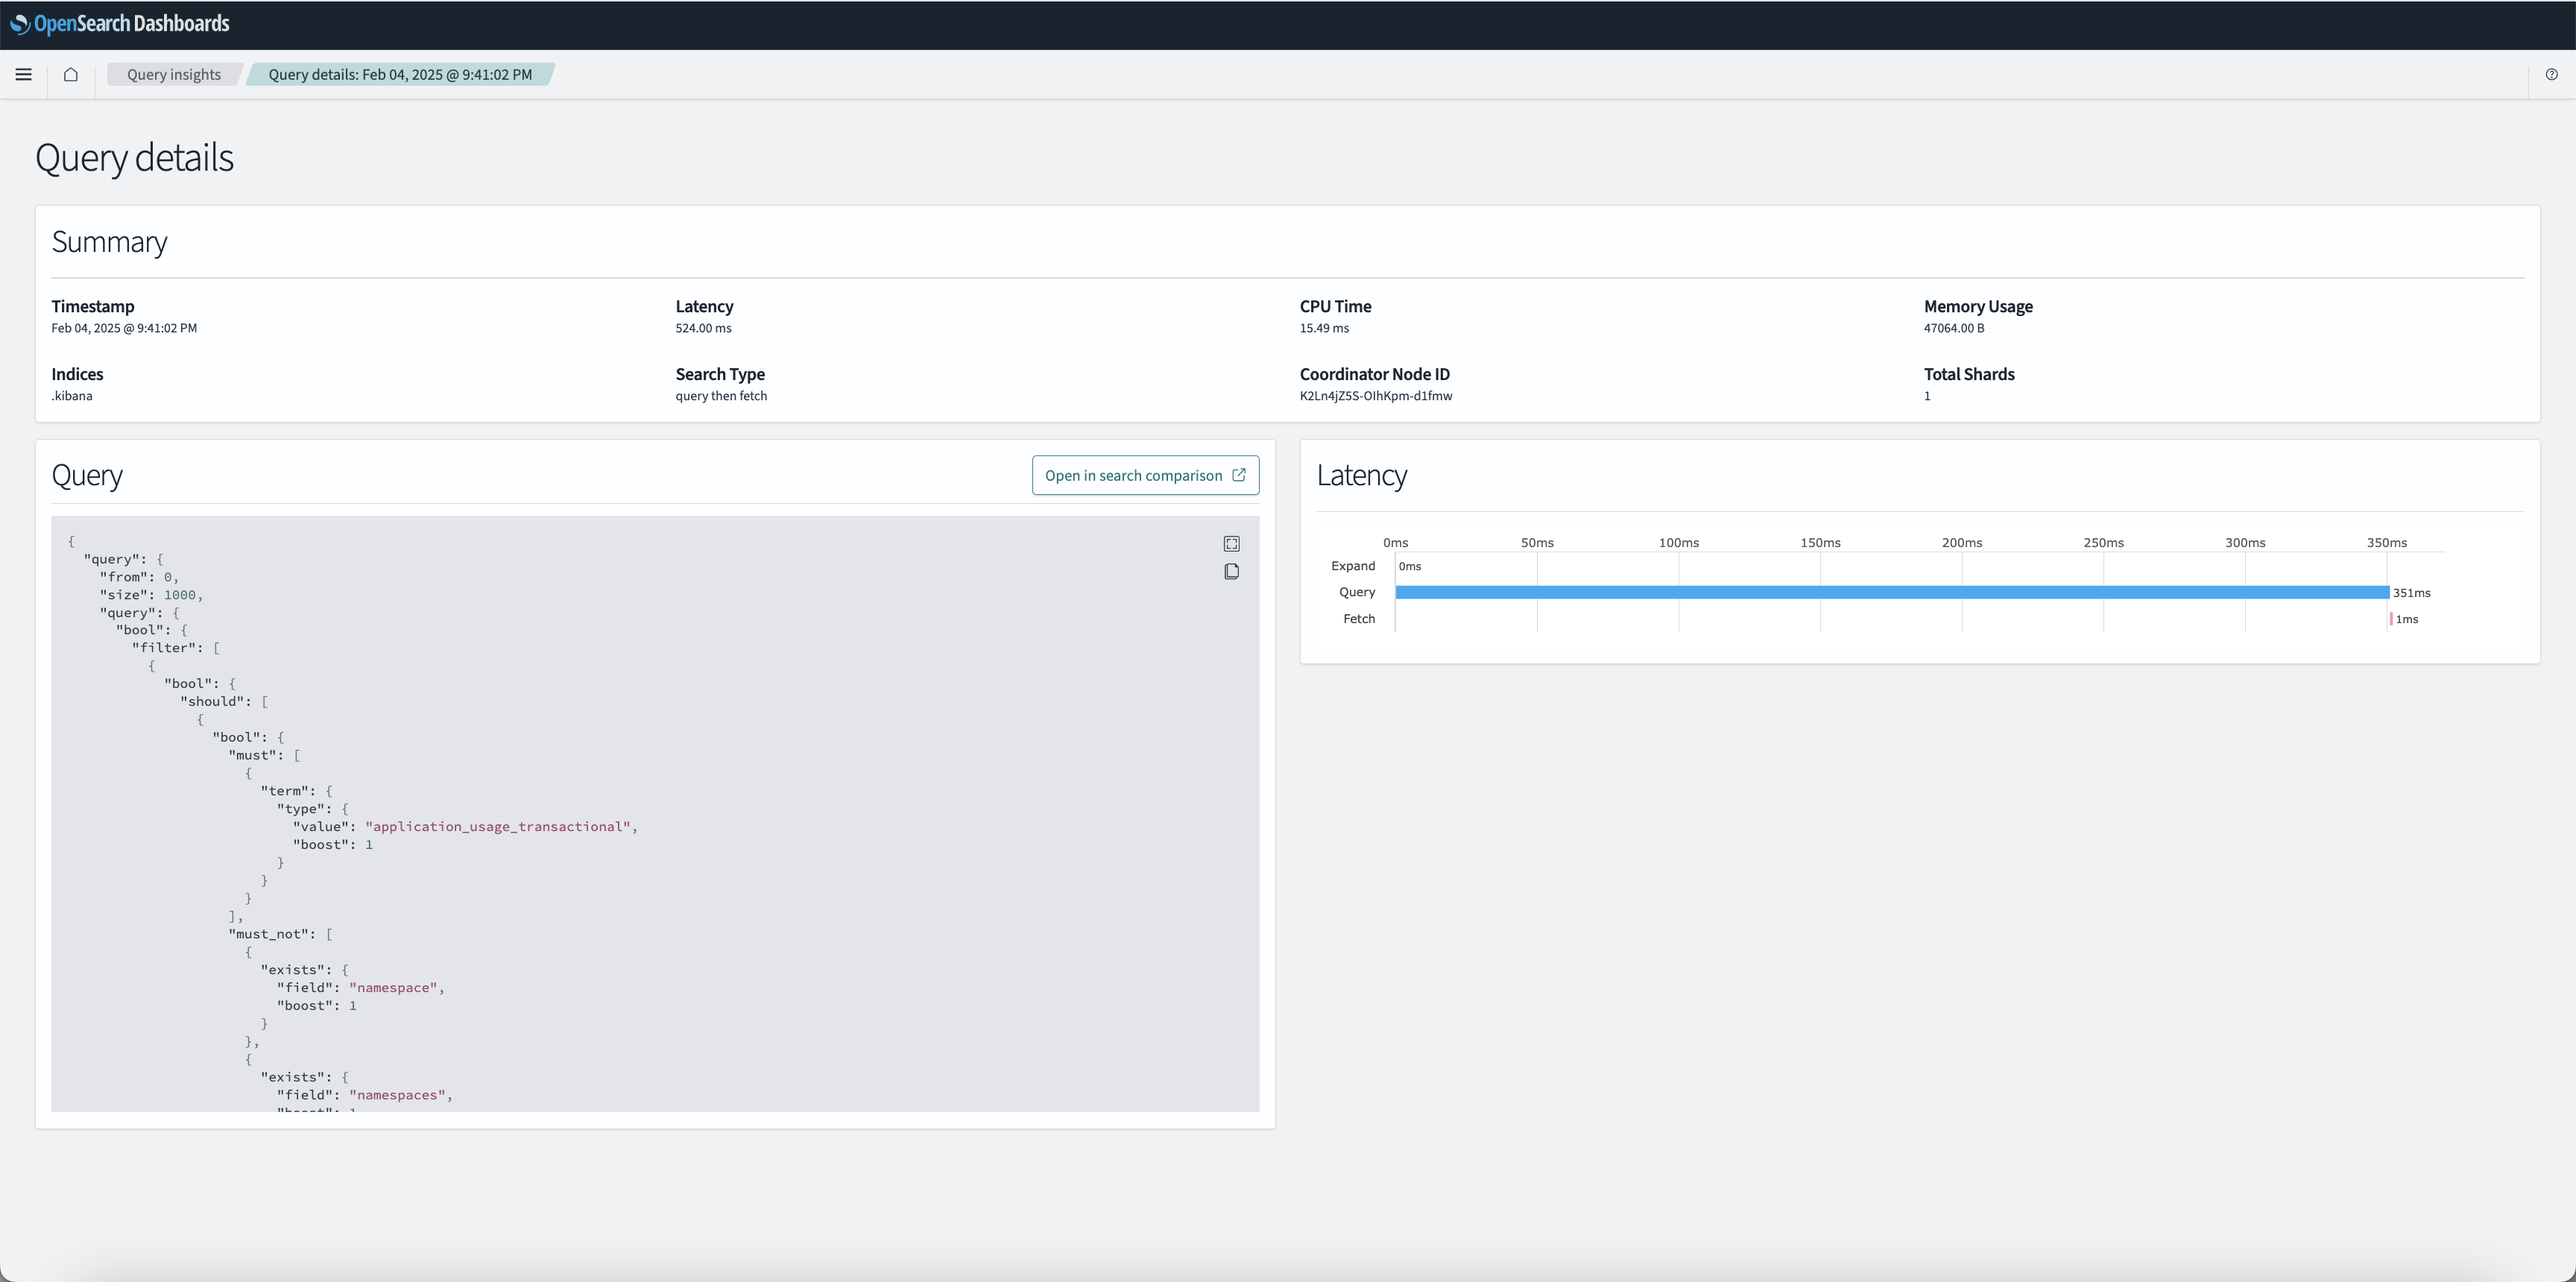
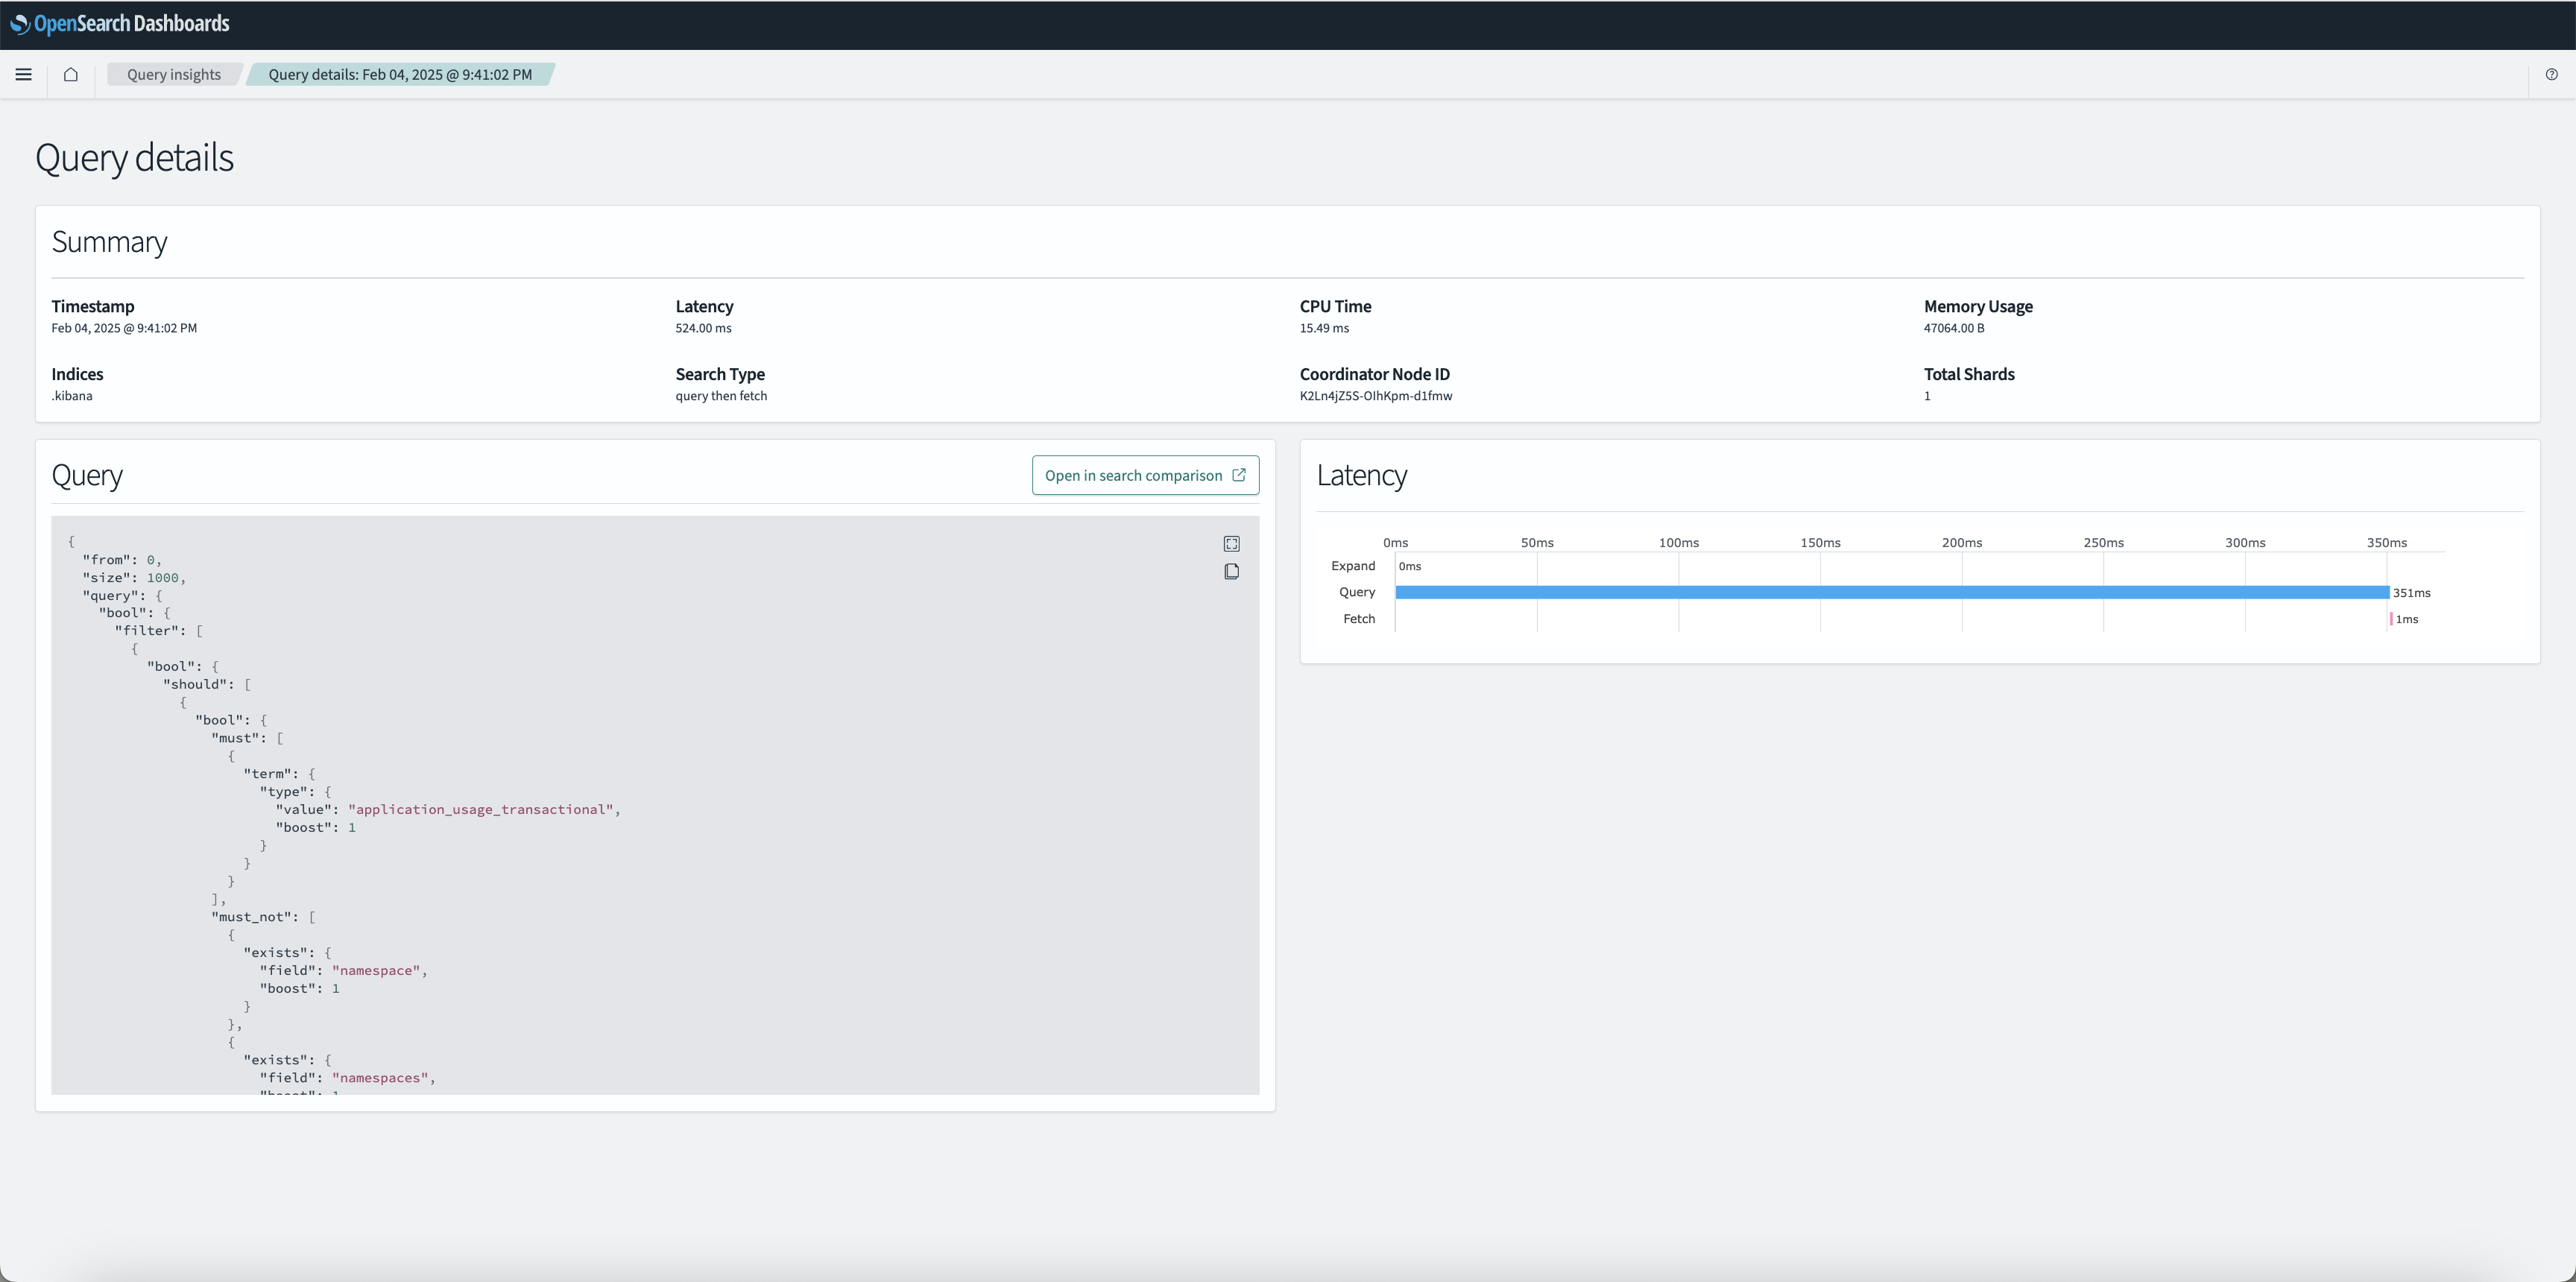
Added source as string and truncation to query insights (#11768)
* Added source as string and truncation to query insights

* Added source as string and truncation to query insights

* Change wording to optimize storage

* Apply suggestions from code review

---------

diff --git a/_observing-your-data/query-insights/top-n-queries.md b/_observing-your-data/query-insights/top-n-queries.md
@@ -70,6 +70,24 @@ PUT _cluster/settings
 ```
 {% include copy-curl.html %}
 
+## Configuring source truncation
+
+To optimize storage usage, you can configure the maximum length (in characters) of the query source stored in top N query records. The default `max_source_length` is `524288` characters (1 MB). For example, to limit the source length to 1000 characters, update the `search.insights.top_queries.max_source_length` setting:
+
+```json
+PUT _cluster/settings
+{
+  "persistent" : {
+    "search.insights.top_queries.max_source_length" : 1000
+  }
+}
+```
+{% include copy-curl.html %}
+
+Setting this value to `0` completely truncates the source, storing no query source information. When the source exceeds the maximum length, it is truncated exactly at the character limit, and the `source_truncated` field in the response is set to `true`.
+{: .note}
+
+
 ## Monitoring current top N queries 
 
 You can use the Insights API endpoint to retrieve the top N queries for the current time window. This API returns top N `latency` results by default.
@@ -110,42 +128,7 @@ Parameter | Data type     | Description
       "indices" : [
         "my-index-0"
       ],
-      "source" : {
-        "size" : 20,
-        "query" : {
-          "bool" : {
-            "must" : [
-              {
-                "match_phrase" : {
-                  "message" : {
-                    "query" : "document",
-                    "slop" : 0,
-                    "zero_terms_query" : "NONE",
-                    "boost" : 1.0
-                  }
-                }
-              },
-              {
-                "match" : {
-                  "user.id" : {
-                    "query" : "userId",
-                    "operator" : "OR",
-                    "prefix_length" : 0,
-                    "max_expansions" : 50,
-                    "fuzzy_transpositions" : true,
-                    "lenient" : false,
-                    "zero_terms_query" : "NONE",
-                    "auto_generate_synonyms_phrase_query" : true,
-                    "boost" : 1.0
-                  }
-                }
-              }
-            ],
-            "adjust_pure_negative" : true,
-            "boost" : 1.0
-          }
-        }
-      },
+      "source" : """{"size":20,"query":{"bool":{"must":[{"match_phrase":{"message":{"query":"document","slop":0,"zero_terms_query":"NONE","boost":1.0}}},{"match":{"user.id":{"query":"userId","operator":"OR","prefix_length":0,"max_expansions":50,"fuzzy_transpositions":true,"lenient":false,"zero_terms_query":"NONE","auto_generate_synonyms_phrase_query":true,"boost":1.0}}}],"adjust_pure_negative":true,"boost":1.0}}}""",
       "task_resource_usages" : [
         {
           "action" : "indices:data/read/search[phase/query]",
@@ -179,6 +162,7 @@ Parameter | Data type     | Description
         "X-Opaque-Id" : "query-label-1"
       },
       "search_type" : "query_then_fetch",
+      "source_truncated" : false,
       "total_shards" : 1,
       "user_roles" : [
         "all_access"
@@ -209,17 +193,7 @@ Parameter | Data type     | Description
       "indices" : [
         "my-index-*"
       ],
-      "source" : {
-        "size" : 20,
-        "query" : {
-          "term" : {
-            "user.id" : {
-              "value" : "userId",
-              "boost" : 1.0
-            }
-          }
-        }
-      },
+      "source" : """{"size":20,"query":{"term":{"user.id":{"value":"userId","boost":1.0}}}}""",
       "task_resource_usages" : [
         {
           "action" : "indices:data/read/search[phase/query]",
@@ -251,6 +225,7 @@ Parameter | Data type     | Description
       },
       "labels" : { },
       "search_type" : "query_then_fetch",
+      "source_truncated" : false,
       "total_shards" : 1,
       "user_roles" : [
         "all_access"

diff --git a/_observing-your-data/query-insights/grouping-top-n-queries.md b/_observing-your-data/query-insights/grouping-top-n-queries.md
@@ -223,13 +223,7 @@ The response contains the top N query groups:
     {
       "timestamp": 1725495127359,
       "wlm_group_id": "DEFAULT_WORKLOAD_GROUP",
-      "source": {
-        "query": {
-          "match_all": {
-            "boost": 1.0
-          }
-        }
-      },
+      "source": """{"query":{"match_all":{"boost":1.0}}}""",
       "phase_latency_map": {
         "expand": 0,
         "query": 55,
@@ -269,6 +263,7 @@ The response contains the top N query groups:
         "all_access"
       ],
       "search_type": "query_then_fetch",
+      "source_truncated": false,
       "measurements": {
         "latency": {
           "number": 160,
@@ -280,16 +275,7 @@ The response contains the top N query groups:
     {
       "timestamp": 1725495135160,
       "wlm_group_id": "DEFAULT_WORKLOAD_GROUP",
-      "source": {
-        "query": {
-          "term": {
-            "content": {
-              "value": "first",
-              "boost": 1.0
-            }
-          }
-        }
-      },
+      "source": """{"query":{"term":{"content":{"value":"first","boost":1.0}}}}""",
       "phase_latency_map": {
         "expand": 0,
         "query": 18,
@@ -329,6 +315,7 @@ The response contains the top N query groups:
         "all_access"
       ],
       "search_type": "query_then_fetch",
+      "source_truncated": false,
       "measurements": {
         "latency": {
           "number": 109,
@@ -340,23 +327,7 @@ The response contains the top N query groups:
     {
       "timestamp": 1725495139766,
       "wlm_group_id": "DEFAULT_WORKLOAD_GROUP",
-      "source": {
-        "query": {
-          "match": {
-            "content": {
-              "query": "first",
-              "operator": "OR",
-              "prefix_length": 0,
-              "max_expansions": 50,
-              "fuzzy_transpositions": true,
-              "lenient": false,
-              "zero_terms_query": "NONE",
-              "auto_generate_synonyms_phrase_query": true,
-              "boost": 1.0
-            }
-          }
-        }
-      },
+      "source": """{"query":{"match":{"content":{"query":"first","operator":"OR","prefix_length":0,"max_expansions":50,"fuzzy_transpositions":true,"lenient":false,"zero_terms_query":"NONE","auto_generate_synonyms_phrase_query":true,"boost":1.0}}}}""",
       "phase_latency_map": {
         "expand": 0,
         "query": 15,
@@ -396,6 +367,7 @@ The response contains the top N query groups:
         "all_access"
       ],
       "search_type": "query_then_fetch",
+      "source_truncated": false,
       "measurements": {
         "latency": {
           "number": 43,

diff --git a/_observing-your-data/query-insights/query-insights-dashboard.md b/_observing-your-data/query-insights/query-insights-dashboard.md
@@ -120,6 +120,8 @@ You can access detailed information about a single query by selecting the query 
 
 In the query details view, you can view information such as **Timestamp**, **CPU Time**, **Memory Usage**, **Indexes**, **Search Type**, **Coordinator Node ID**, and **Total Shards**.
 
+If the query source has been truncated because of size limits, it is displayed as a string instead of formatted JSON.
+
 ### Viewing query group details
 
 The query group details view provides insights into aggregated metrics for a group of similar queries.
@@ -130,7 +132,6 @@ To view query group details, select a query ID marked as a "group" in the **Top 
 
 - The **Aggregate summary for queries** section provides a view of key query metrics for the entire group, including **Average latency**, **Average CPU time**, **Average memory usage**, and **Group by** criteria.
 - The **Sample query details** section provides information about a single representative query, including its **Timestamp**, **Indexes**, **Search Type**, **Coordinator Node ID**, and **Total Shards**.
-- The **Query** section displays the JSON structure of the query.
 - The **Latency** section presents a graphical representation of the run phases for the query.
 
 ## Configuration

diff --git a/_observing-your-data/query-insights/health.md b/_observing-your-data/query-insights/health.md
@@ -139,3 +139,4 @@ Field | Description
 `EXPORTER_FAIL_TO_CLOSE_EXCEPTION` | The number of failures that occur when closing the exporter.
 `READER_FAIL_TO_CLOSE_EXCEPTION` | The number of failures that occur when closing the reader.
 `TOP_N_QUERIES_USAGE_COUNT` | The number of times the Top N Queries API is used.
+`TOP_N_QUERIES_SOURCE_TRUNCATION` | The number of times a query source was truncated due to size limit.